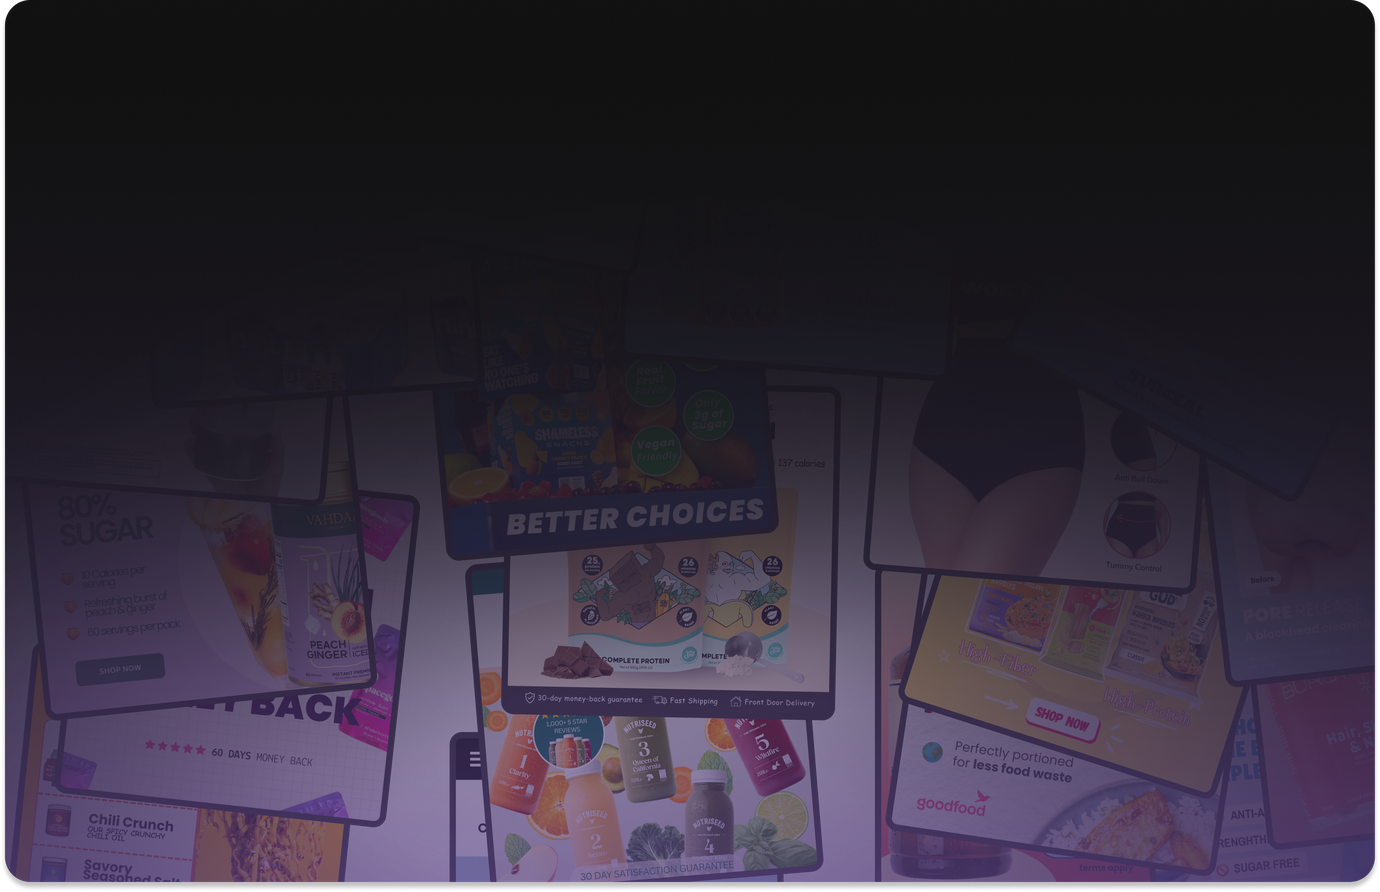
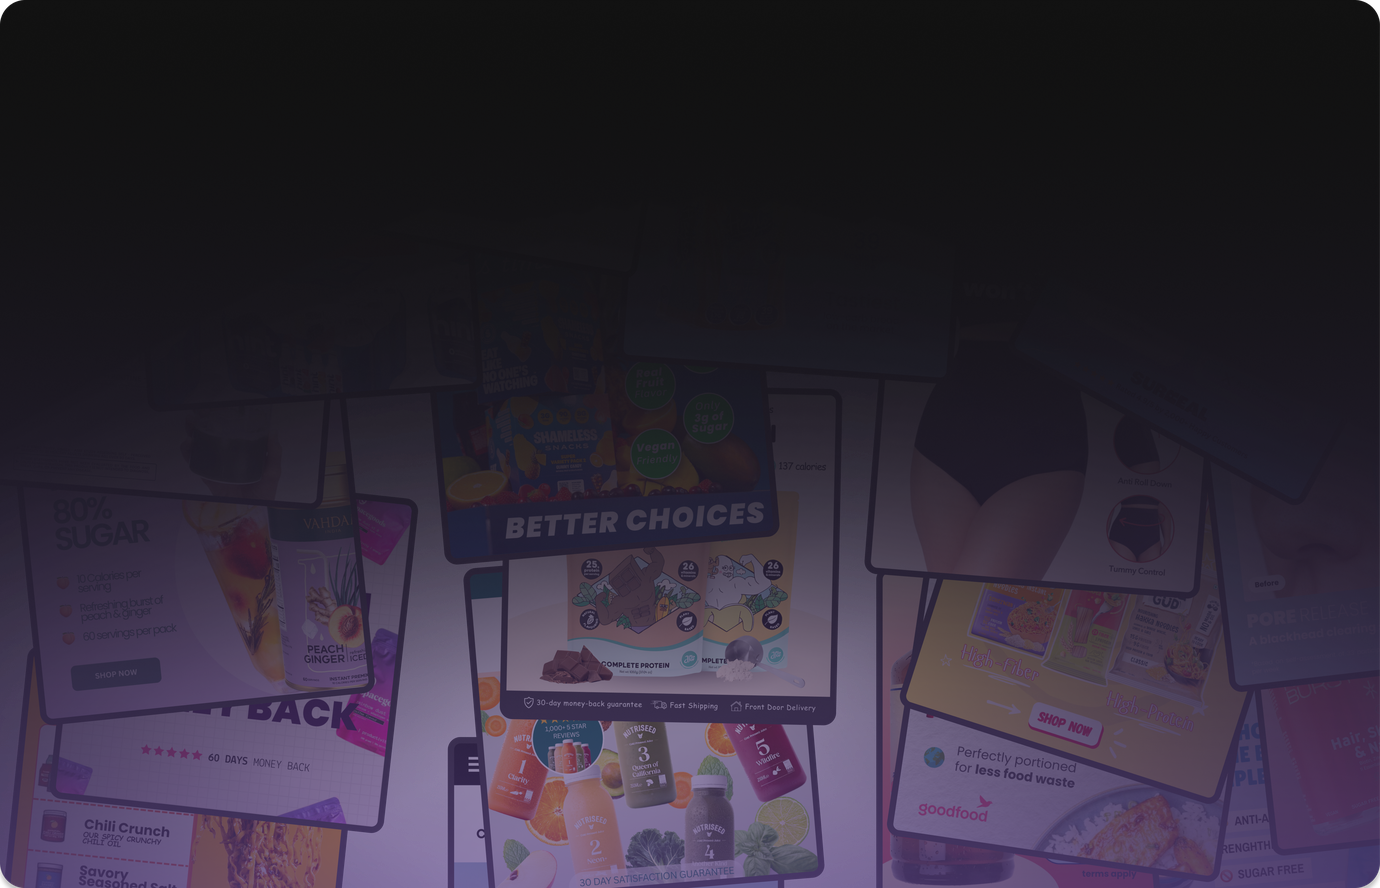
The phone 50+ monthly art is cropped to its ink
The export carries 16 of clear margin either side and 33 of drop shadow
under its bottom edge, which cover drew inside the card as a hairline of
black and a notch at each bottom corner (Žilvinas 2026-09-25, "does not
fully fit"). The cut starts at the opaque edge now: 1380 x 888, lossless.

Changed region(s): [[0.0, 0.0, 1.0, 1.0], [0.8413, 0.8209, 0.9036, 0.9122], [0.1558, 0.6689, 0.187, 0.7297]]

diff --git a/src/components/TemplateSections.tsx b/src/components/TemplateSections.tsx
@@ -2068,9 +2068,14 @@ export function TemplatesInside() {
               is gone.
               RE-CUT 2026-09-25 (Žilvinas, "should be replaced") from the
               client's "50+ new templates monthly.png", a 4396 x 2840
-              master at the card's own aspect, Lanczos down to 1380 x 892
+              master at the card's own aspect, Lanczos down to 1380 x 888
               and LOSSLESS — the 97 KB lossy cut it replaces smeared the
-              collage's small type. 745 KB, lazy, below the fold. */}
+              collage's small type. 745 KB, lazy, below the fold.
+              CROPPED TO ITS INK (Žilvinas 2026-09-25, "does not fully fit"):
+              the export carries 16 of clear margin either side and 33 of
+              drop shadow under its bottom edge, which cover was drawing
+              inside the card as a hairline of black and a notch at each
+              bottom corner. The cut starts at the opaque edge now. */}
           <article
             // CENTRED on desktop too, 45 down from the card's top (Žilvinas
             // 2026-09-19, off the artboard's inspector); it was left-set
